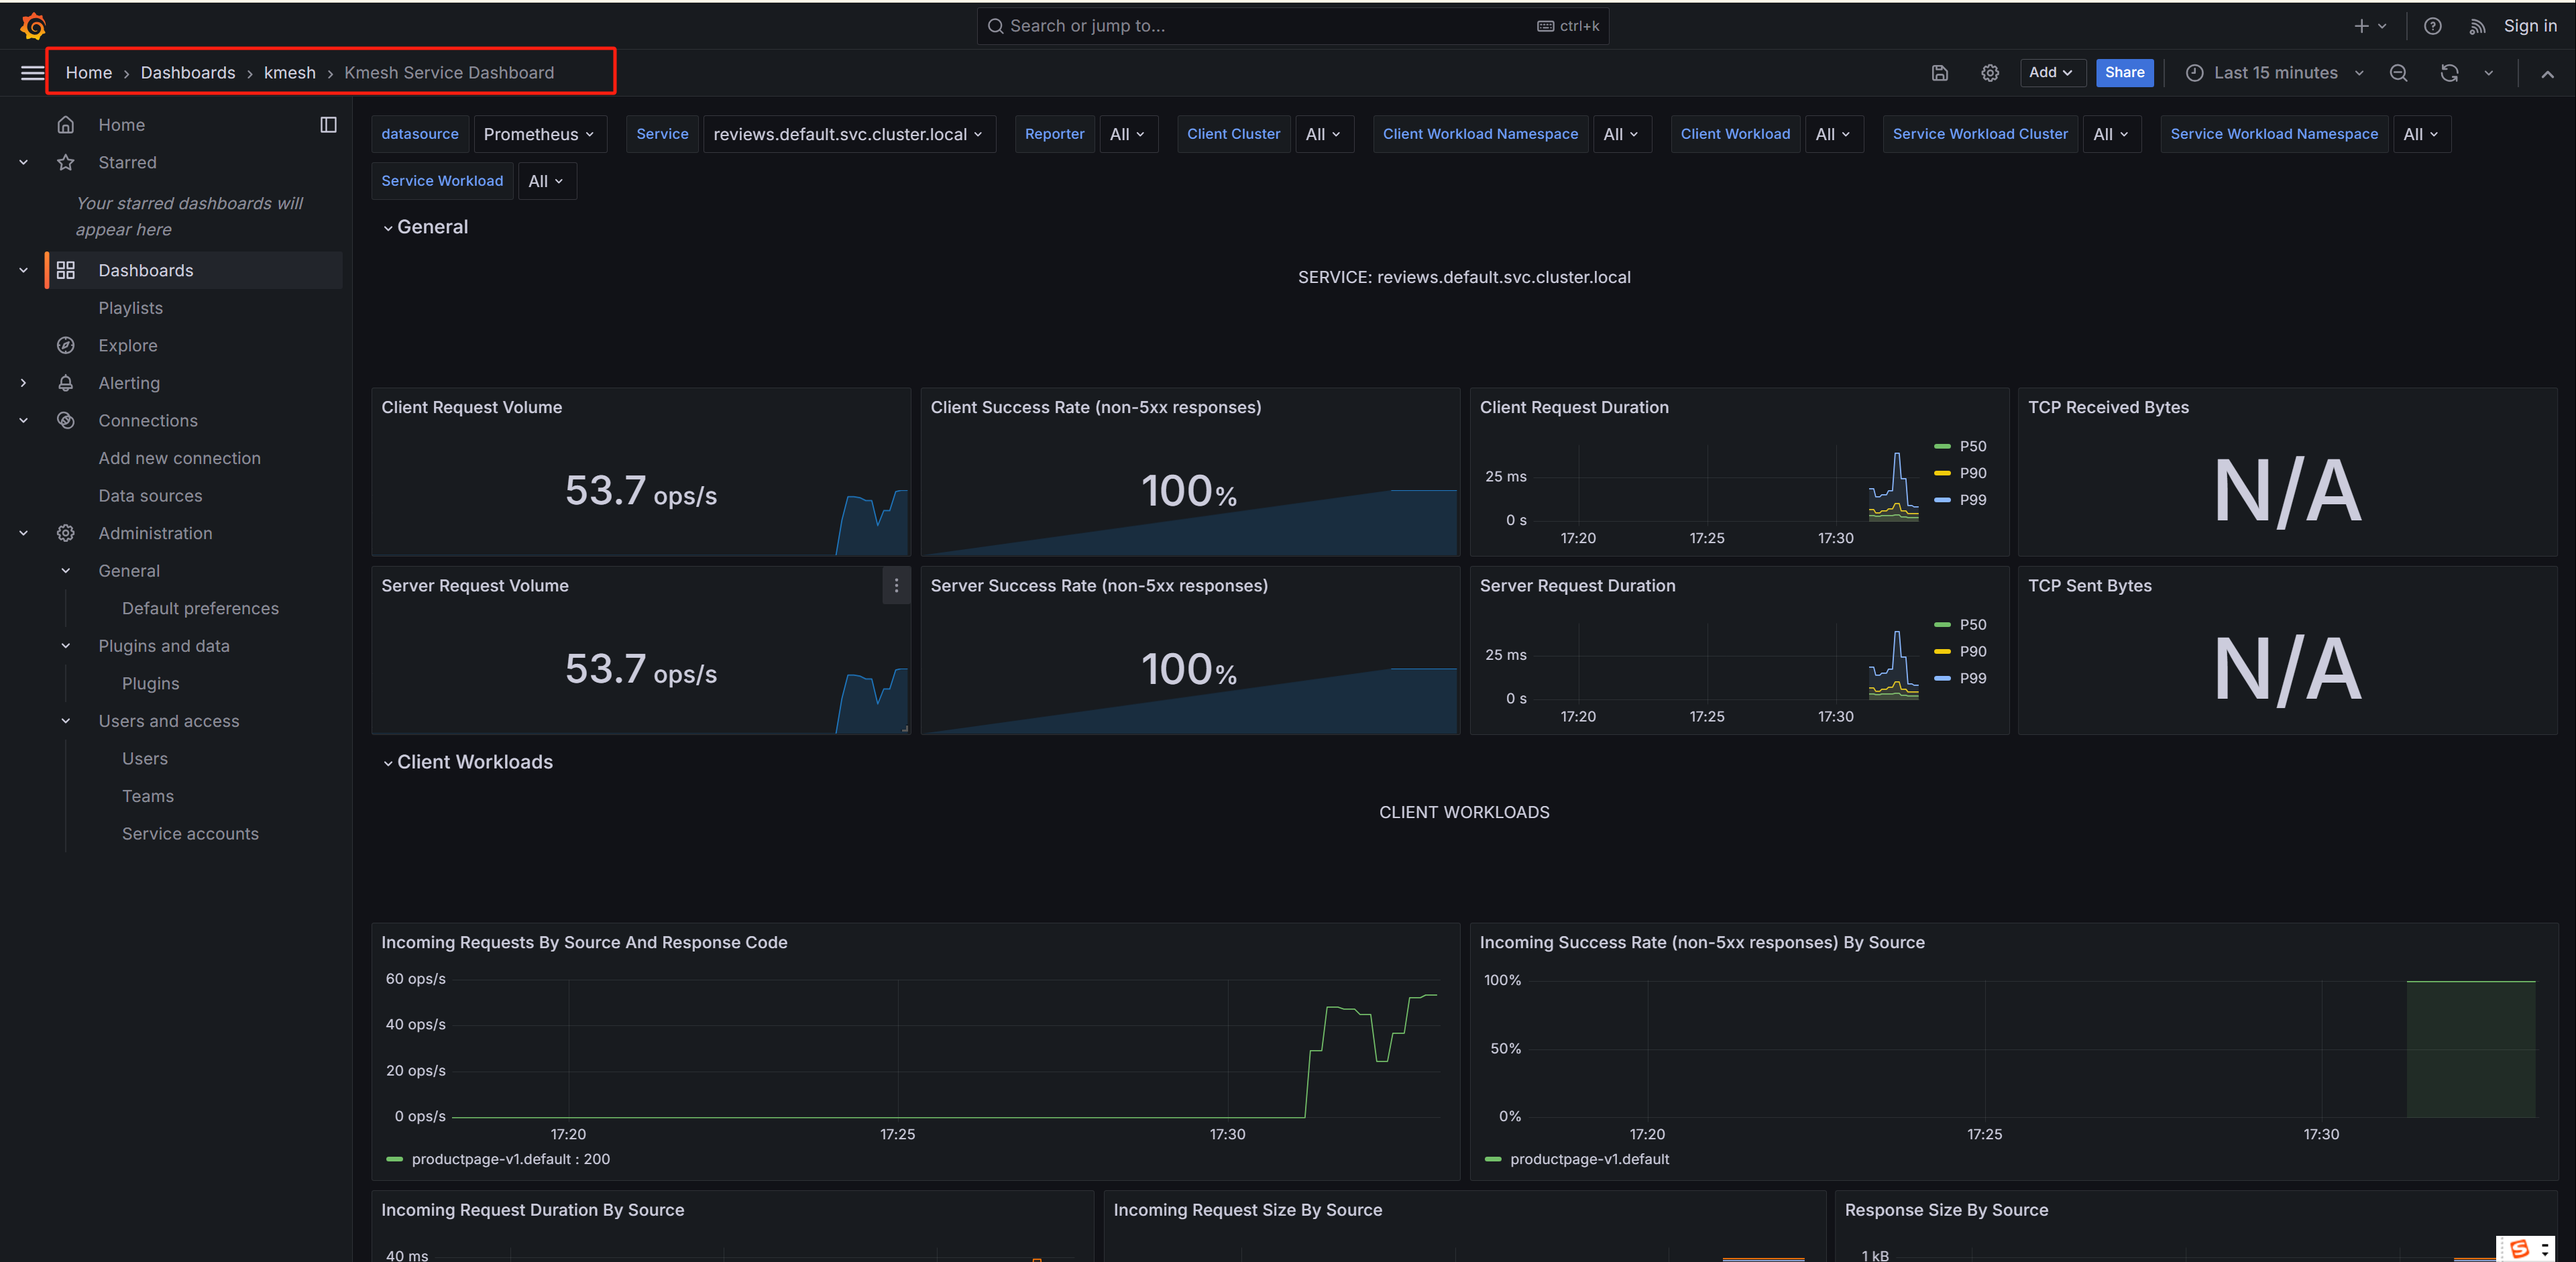
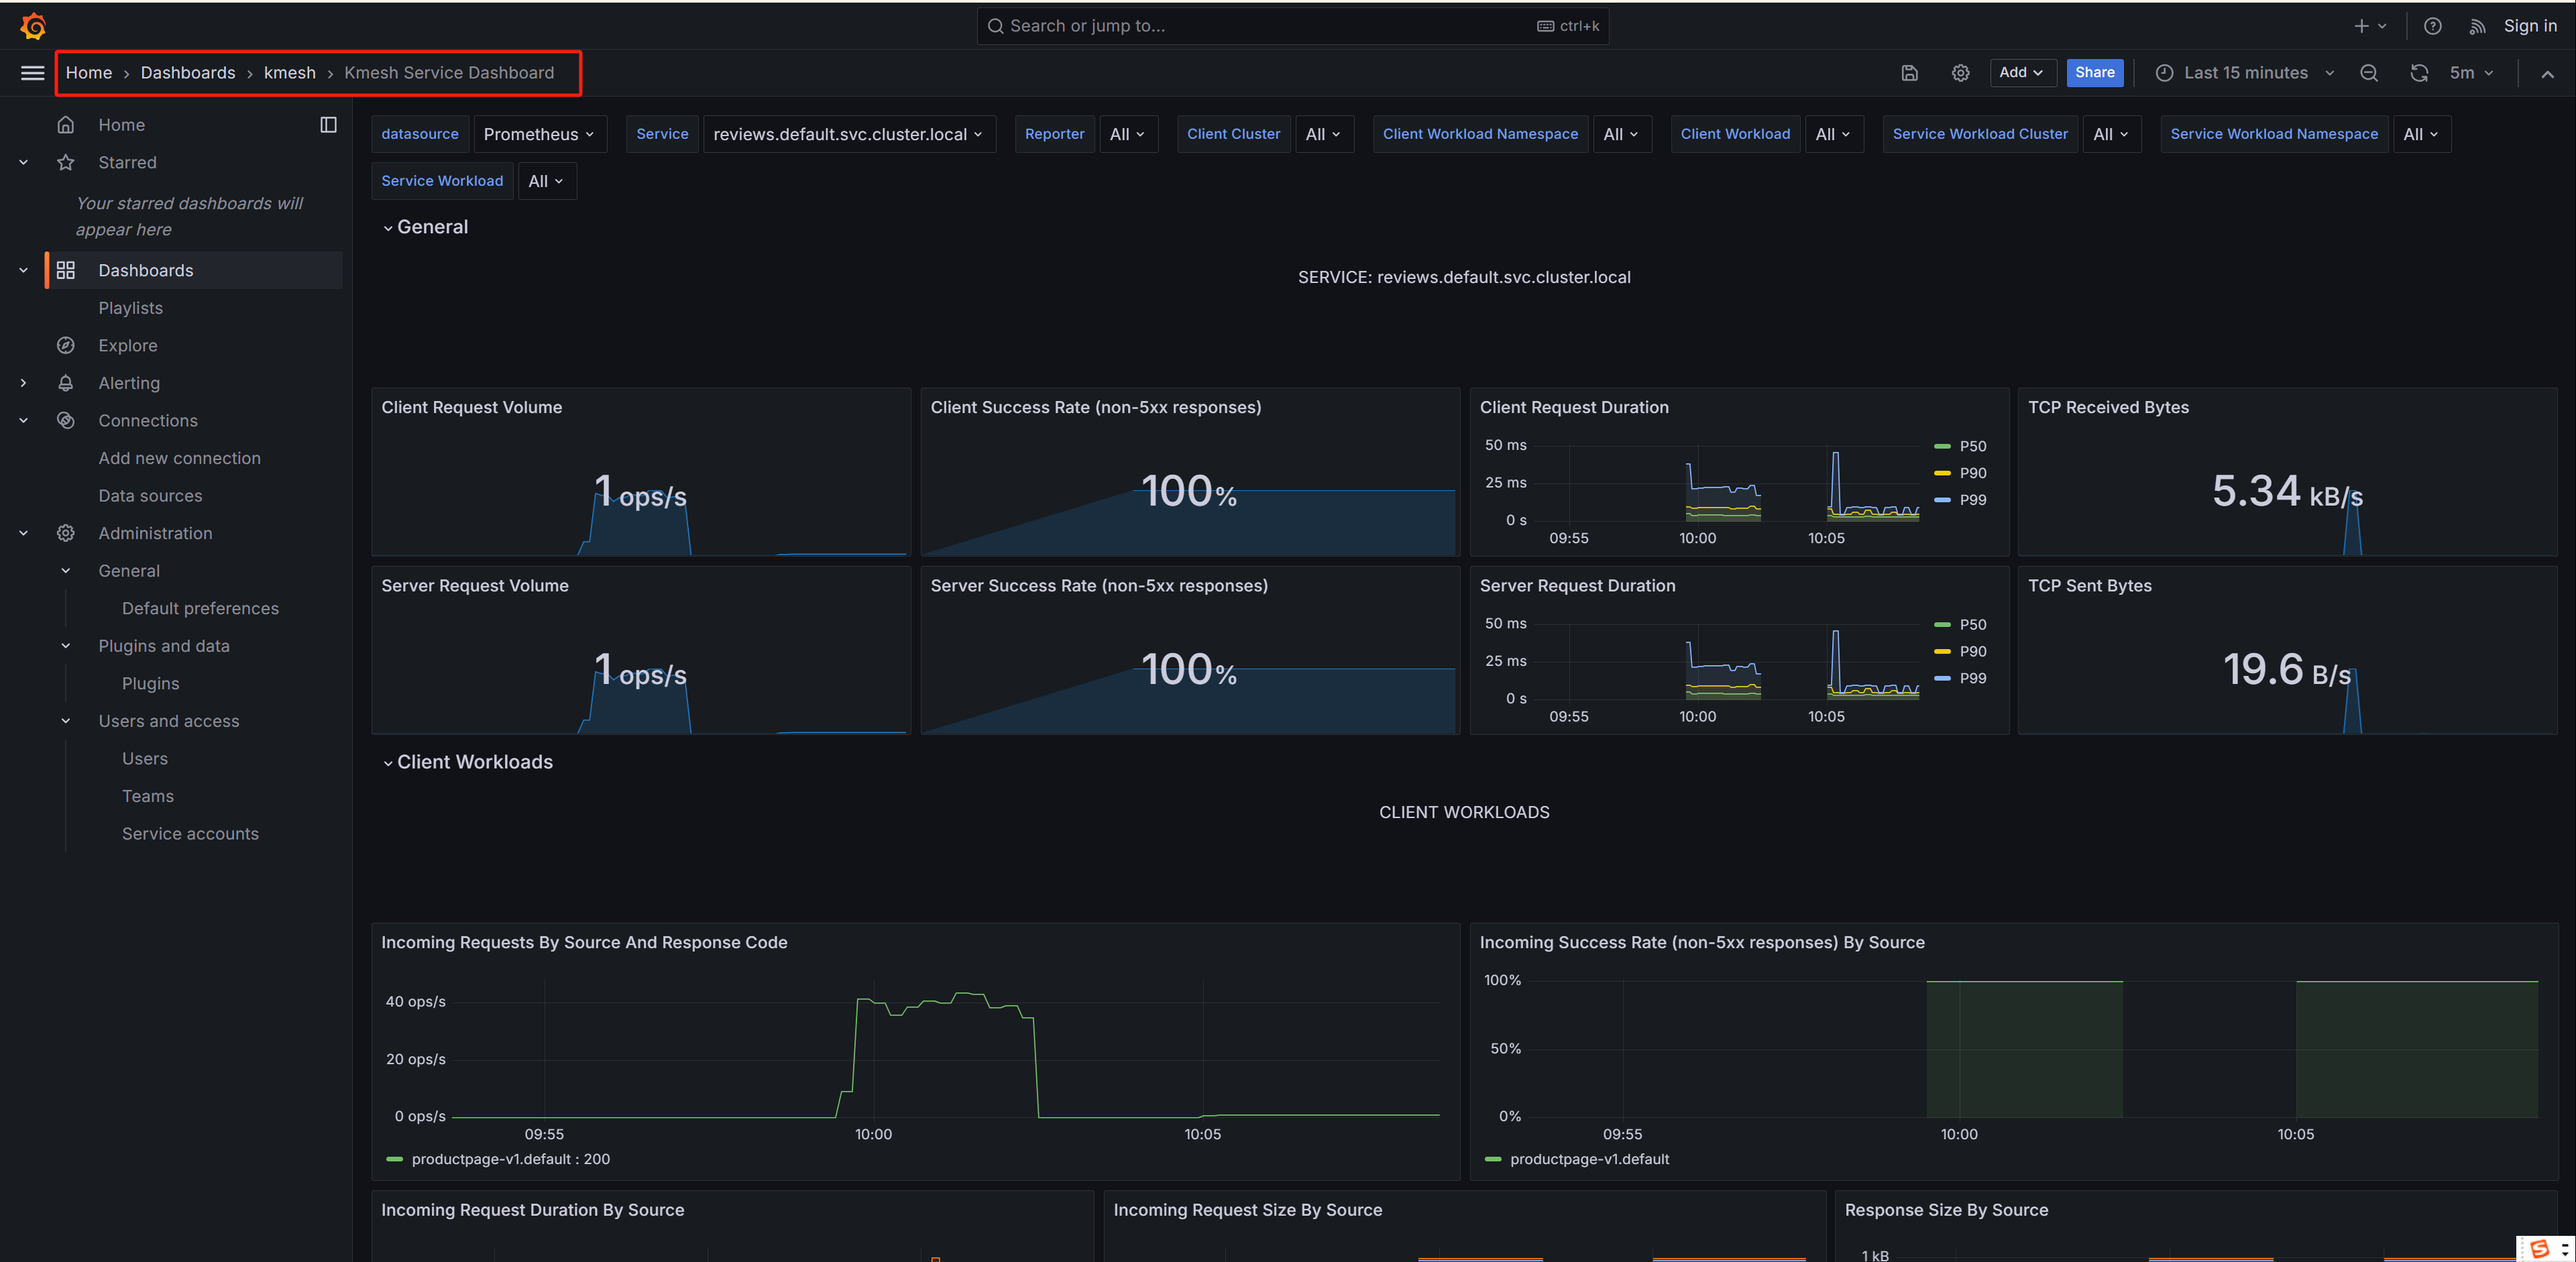
update doc

diff --git a/content/en/docs/userguide/service_metrics.md b/content/en/docs/userguide/service_metrics.md
@@ -13,54 +13,27 @@ type: docs
 
 ### Preparation
 
-1. Install Kmesh:
+Refer [Install-kmesh | Quick Start | Kmesh](https://kmesh.net/en/docs/setup/quickstart/#install-kmesh)
 
-Please refer [quickstart](https://kmesh.net/en/docs/setup/quickstart/)
+- install Kmesh, 
 
-2. Deploy sample application:
+Refer [Install Waypoint | Kmesh](https://kmesh.net/en/docs/userguide/install_waypoint/#preparation)
 
-Using Kmesh manage default namespace
+- Make default namespace managed by Kmesh
+- Deploy bookinfo as sample application and sleep as cur client
+- Install namespace granularity waypoint for default namespace
 
-```bash
-[root@ ~]# kubectl label namespace default istio.io/dataplane-mode=Kmesh
-```
- 
-3. Deploy bookinfo and sleep as curl client:
-
-```bash
-[root@ ~]# kubectl apply -f https://raw.githubusercontent.com/istio/istio/release-1.21/samples/bookinfo/platform/kube/bookinfo.yaml
-[root@ ~]# kubectl apply -f https://raw.githubusercontent.com/istio/istio/release-1.21/samples/sleep/sleep.yaml
-[root@ ~]# kubectl get pods
-NAME                             READY   STATUS    RESTARTS   AGE
-details-v1-5f4d584748-bz42z      1/1     Running   0          72s
-productpage-v1-564d4686f-2rjqc   1/1     Running   0          72s
-ratings-v1-686ccfb5d8-dnzkf      1/1     Running   0          72s
-reviews-v1-86896b7648-fqm4z      1/1     Running   0          72s
-reviews-v2-b7dcd98fb-nn42q       1/1     Running   0          72s
-reviews-v3-5c5cc7b6d-q4r5h       1/1     Running   0          72s
-sleep-9454cc476-86vgb            1/1     Running   0          62s
-```
-
-4. Deploy prometheus and garafana:
+Deploy prometheus and garafana:
 
 ```bash
 [root@ ~]# kubectl apply -f https://raw.githubusercontent.com/kmesh-net/kmesh/main/samples/addons/prometheus.yaml
 [root@ ~]# kubectl apply -f https://raw.githubusercontent.com/kmesh-net/kmesh/main/samples/addons/grafana.yaml
 ```
 
-5. Deploy waypoint at namespace granularity:
-
-```bash
-[root@ ~]# istioctl x waypoint apply -n default --enroll-namespace
-waypoint default/waypoint applied
-namespace default labeled with "istio.io/use-waypoint: waypoint"
-[root@ ~]# kubectl annotate gateway waypoint sidecar.istio.io/proxyImage=ghcr.io/kmesh-net/waypoint:latest
-```
-
 ### Generate some continuous traffic between applications in the mesh
 
 ```bash
-[root@ ~]# kubectl exec deploy/sleep -- sh -c "while true; do curl -s http://productpage:9080/productpage | grep reviews-v.-; done"
+[root@ ~]# kubectl exec deploy/sleep -- sh -c "while true; do curl -s http://productpage:9080/productpage | grep reviews-v.-; sleep 1; done"
 ```
 
 ### Use grafana to visualize service metrics
@@ -79,3 +52,14 @@ Visit `Dashboards>Kmesh>Kmesh Service Dashboard`:
 <div align="center">
 <img src="/docs/userguide/grafana.png" width="1400" />
 </div>
+
+### Cleanup
+
+1. Remove prometheus and grafana:
+
+```bash
+[root@ ~]# kubectl delete -f https://raw.githubusercontent.com/kmesh-net/kmesh/main/samples/addons/prometheus.yaml
+[root@ ~]# kubectl delete -f https://raw.githubusercontent.com/kmesh-net/kmesh/main/samples/addons/grafana.yaml
+```
+
+2. If you are not planning to explore any follow-on tasks, refer to the [Install Waypoint/Cleanup](https://kmesh.net/en/docs/userguide/install_waypoint/#cleanup) instructions to remove waypoint and shutdown the application.
